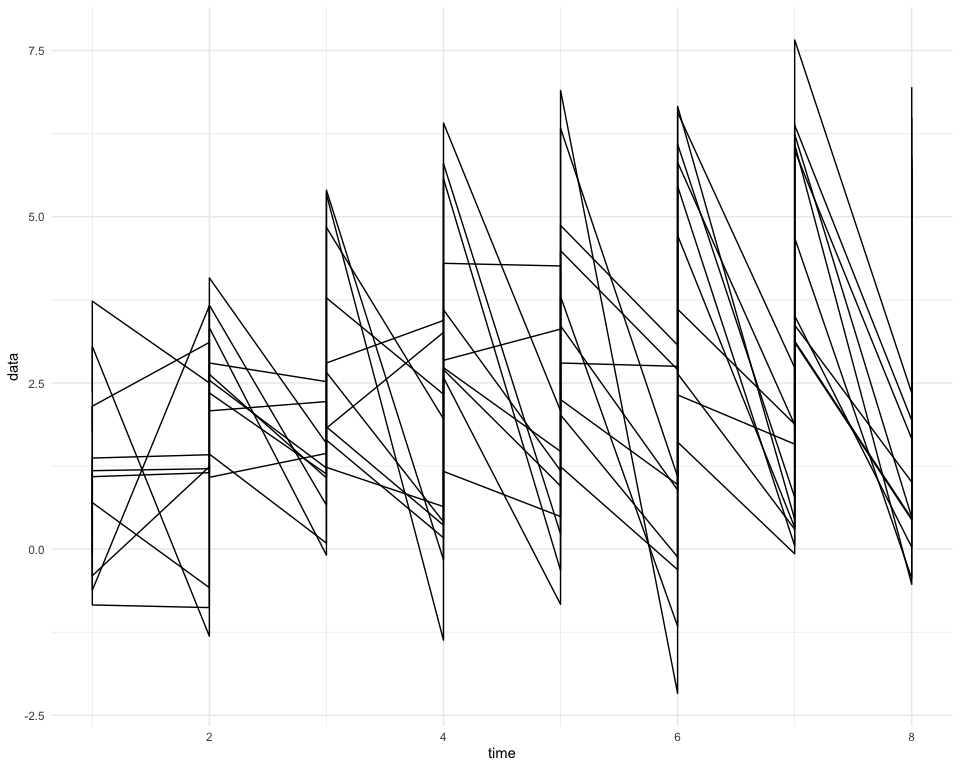
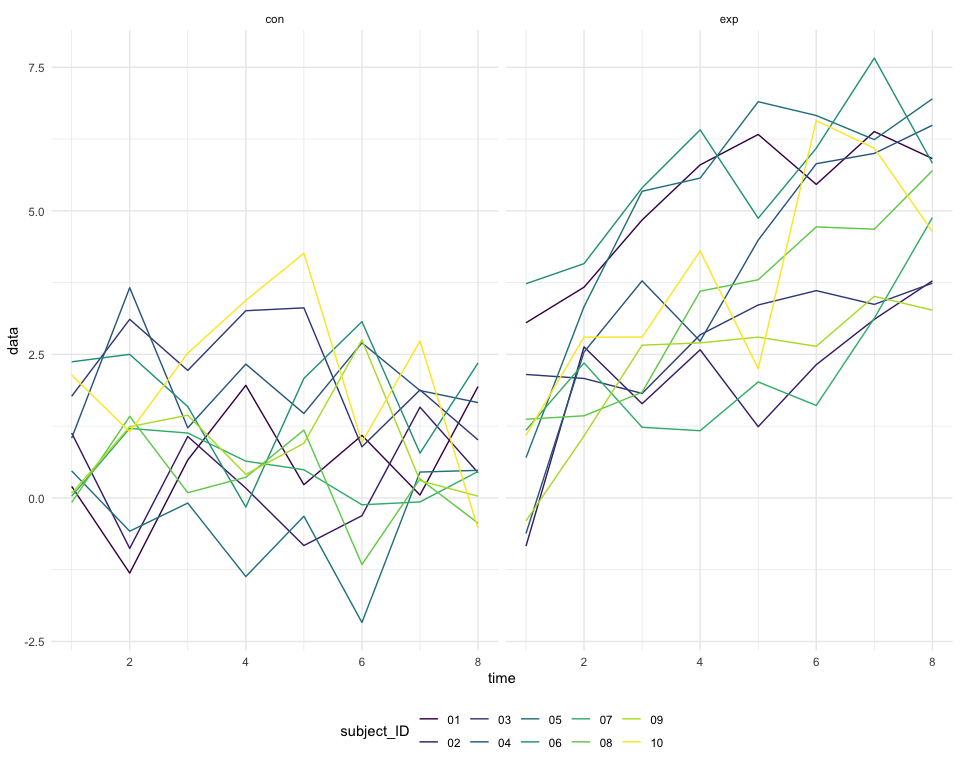
Problem 2 Plot modified

diff --git a/p8105_hw5_yy3421.md b/p8105_hw5_yy3421.md
@@ -238,9 +238,9 @@ Making plot:
 
 ``` r
 files_collection |> 
-  group_by(control_arm, subject_ID) |> 
-  ggplot(aes(x = time, y = data, group = subject_ID))+
-  geom_line()
+  ggplot(aes(x = time, y = data, color = subject_ID))+
+  geom_line()+
+  facet_grid(~control_arm)
 ```
 
 <img src="p8105_hw5_yy3421_files/figure-gfm/plot-1.png" width="90%" />
